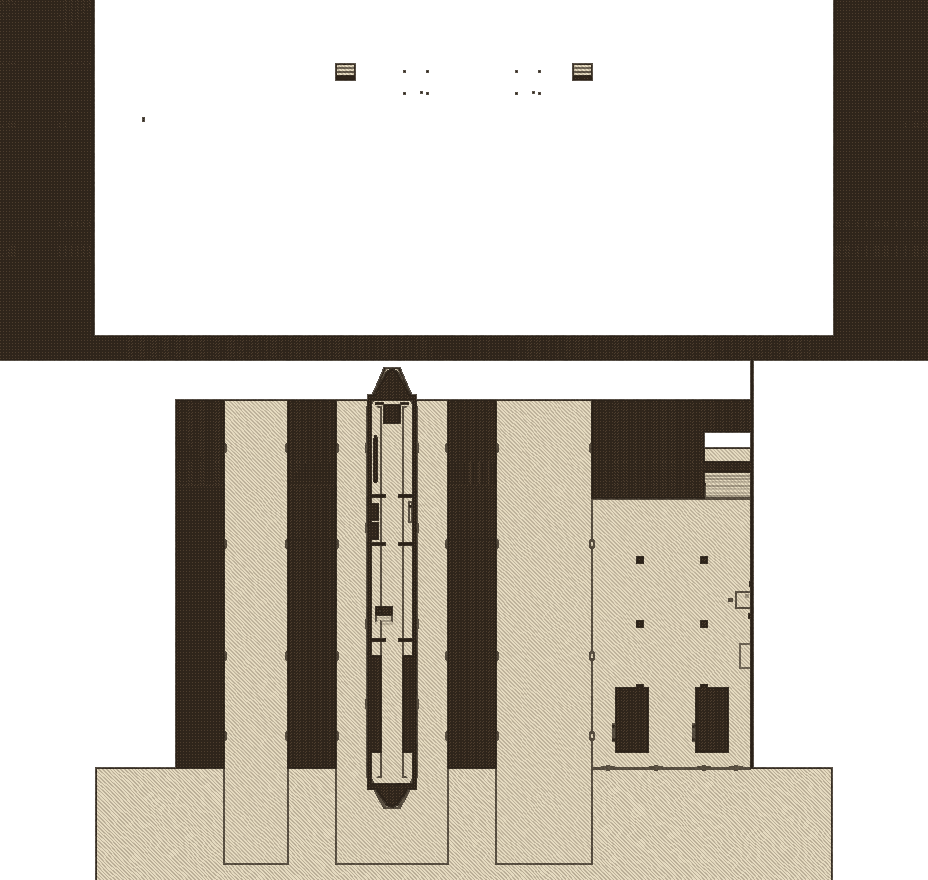
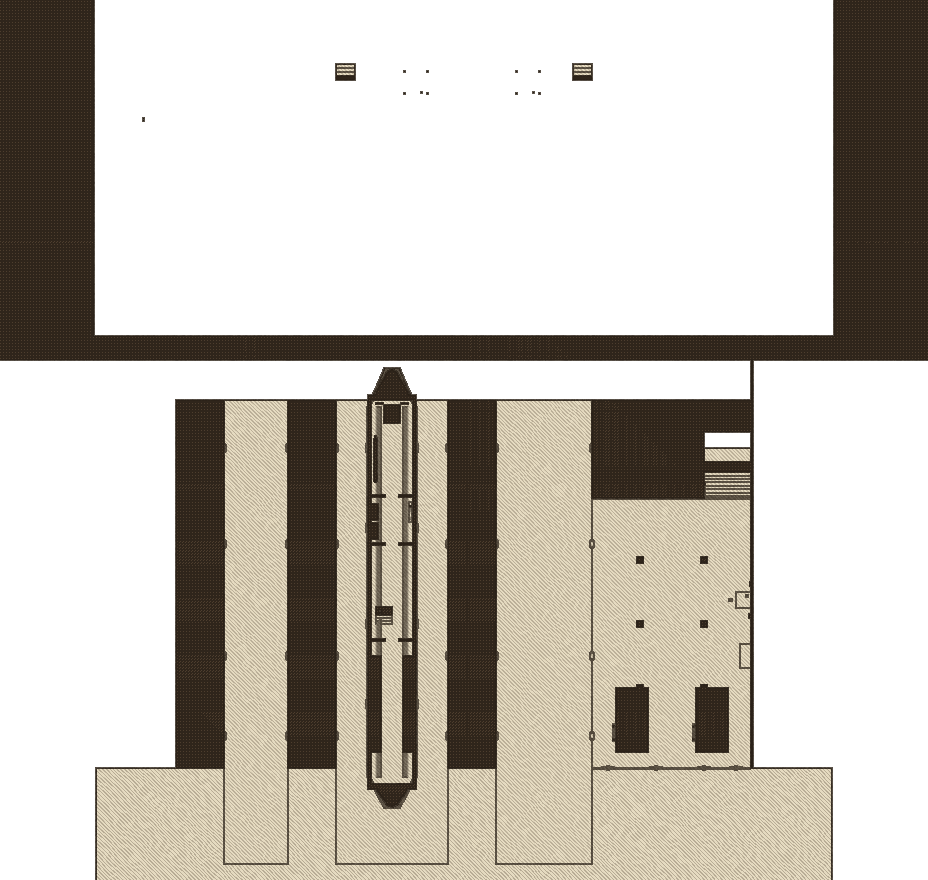
Totenhafen minimap re-baked after the T-103 wall-buy moves (test_mapdata)
Claude-Session: https://claude.ai/code/session_01NmYvPQaRZhcdvNVkYopj8z

Changed region(s): [[0.4062, 0.4602, 0.4688, 0.7364], [0.75, 0.5216, 0.8125, 0.583], [0.4062, 0.8591, 0.4375, 0.8898]]

diff --git a/docs/QA_REPORT_U07.md b/docs/QA_REPORT_U07.md
@@ -41,7 +41,7 @@ Every issue below has a number (Q-NN), a rank, the evidence, and its fix (with t
 
 | # | Map | Issue | Evidence | Fix / test |
 |---|---|---|---|---|
-| Q-10 | Totenhafen | **The player-bot's wall-buy errands time out** at the frag (−0.2, 1.5, 26) and the Trench Gun (−0.2, 1.5, 22), both on the quay/cannery wall: the agent walks to them and never gets the prompt. | playtest r15 bots3 seed 7: `ISSUE: errand timed out: gun frag …`, `… gun trench_gun …`. | **Fixed** (T-103): a tool bug and two map bugs. The playtest bot's `_front_of` used the board's origin (a WallBuy's prompt Area sits at its origin; only the shape is offset), so it accepted a path ending on the quay side of the x=0 wall; it now uses the board's facing (local −Z) and rejects paths ending behind it. The test it got then found the BAR board hung over Basin 1 and the Thompson board inside Locker2: both moved to the lockers' free faces. Test: navmesh within 2 m in front of every map02 wall-buy. Re-verified: a round-6 playtest with zero ISSUE lines (the agent buys, repairs, refills). |
+| Q-10 | Totenhafen | **The player-bot's wall-buy errands time out** at the frag (−0.2, 1.5, 26) and the Trench Gun (−0.2, 1.5, 22), both on the quay/cannery wall: the agent walks to them and never gets the prompt. | playtest r15 bots3 seed 7: `ISSUE: errand timed out: gun frag …`, `… gun trench_gun …`. | **Fixed** (T-103): a tool bug and two map bugs. The playtest bot's `_front_of` used the board's origin (a WallBuy's prompt Area sits at its origin; only the shape is offset), so it accepted a path ending on the quay side of the x=0 wall; it now uses the board's facing (local −Z) and rejects paths ending behind it. The test it got then found the BAR board hung over Basin 1 and the Thompson board inside Locker2: both moved to the lockers' free faces. Map data re-baked for the moved boards (the bake is part of any wall-buy move). Test: navmesh within 2 m in front of every map02 wall-buy. Re-verified: a round-6 playtest with zero ISSUE lines (the agent buys, repairs, refills). |
 | Q-11 | Totenhafen | **The AI soak and bot mode cannot run on Totenhafen**: `ai_soak.gd` knows only map00/map01, there is no `routes_map02.json` (so bots have no training routes there) and no map02 plan in `player_bot.json`. The bots on Totenhafen train "a ring of reachable points around the spawn" and nothing else. | `tools_src/ai_soak.gd` `const MAPS`; `data/gravelight/ai/` listing; the playtest's bot block: Peg/Deacon/Wren ended at round 14 with 25–41k Scrip unspent, doors 0, upgrades 0, all three down within 2 m of (1, 0, 29). | **Fixed** (T-103): `--scenario=totenhafen` (map02 in `ai_soak.gd` and `route_tool.gd`), `routes_map02.json` (hut, cannery, apron loops; all PASS in `route_tool --validate`), a map02 plan in `player_bot.json`. Test: every point of every `routes_map0*.json` on its map's navmesh. First measurement: seed 31 to round 12 (the cap) in 15.2 min, bot kills 441, bot downs 3 (0.25/round), no STALL. |
 | Q-13 | Kaltenbrunn | **The `kaltenbrunn` soak scenario cannot measure the bots on Map 1**: its scripted human stands in the Minehead Yard on the baseline kit and never opens a door, and the bots never lead while a human is up, so the squad plays round 9 in the spawn yard with 0 Scrip spent and wipes there. The wipe itself is also evidence: all four down inside 10 s (Dutch t=674.5, Wren 679.3, Deacon 680.1, Peg 684.3 at x 3–14, z 13–24) with 4 revives pending and 0 attempted. | `logs/ai_runs/20261026_101033_kaltenbrunn_r1_s21.csv`: end=wipe round=9 in 11.4 min, bot kills 229, downs 3 (0.33/round) + 1 human, revives 0/0 judged (pending 4), scrip spent 0, empty-mag 44 (63.9 s), stuck 0. | Re-measured with `--open-doors=all --power` and with `--scenario=bots3 --map=map01` (bots lead themselves) in §6; the revive finding is judged on those runs. The scenario's doc gets the caveat. |
 | Q-14 | Crossroads Inn | **Bots get stuck on top of the taproom's centre table** at (16.5, 0.8, 11.5): a bot vaults onto the table (U02 §1 mantle) and the stuck detector then fires there over and over (37 of the run's 42 stuck events, 19.8 s), because the table top is not navmesh and the brain's unstick walks it round the table's edge. | `logs/ai_runs/20261026_101033_bots3_r1_s11.csv` stuck events grouped by place: 37 × (16.5, 0.8, 11.5) (the "map" story prop sits on that table at y 0.752, `gen_map00.gd:3109`); 6 + 3 × (23.6, 3.5, 31.7) (the stable loft). | **To fix** (worker u07-qa-map00): no bot vault onto furniture tops (the mantle target must be navmesh), or a nav-blocked table footprint plus a "step down" unstick; test: a bot placed on the table reaches the floor navmesh within 2 s. |
